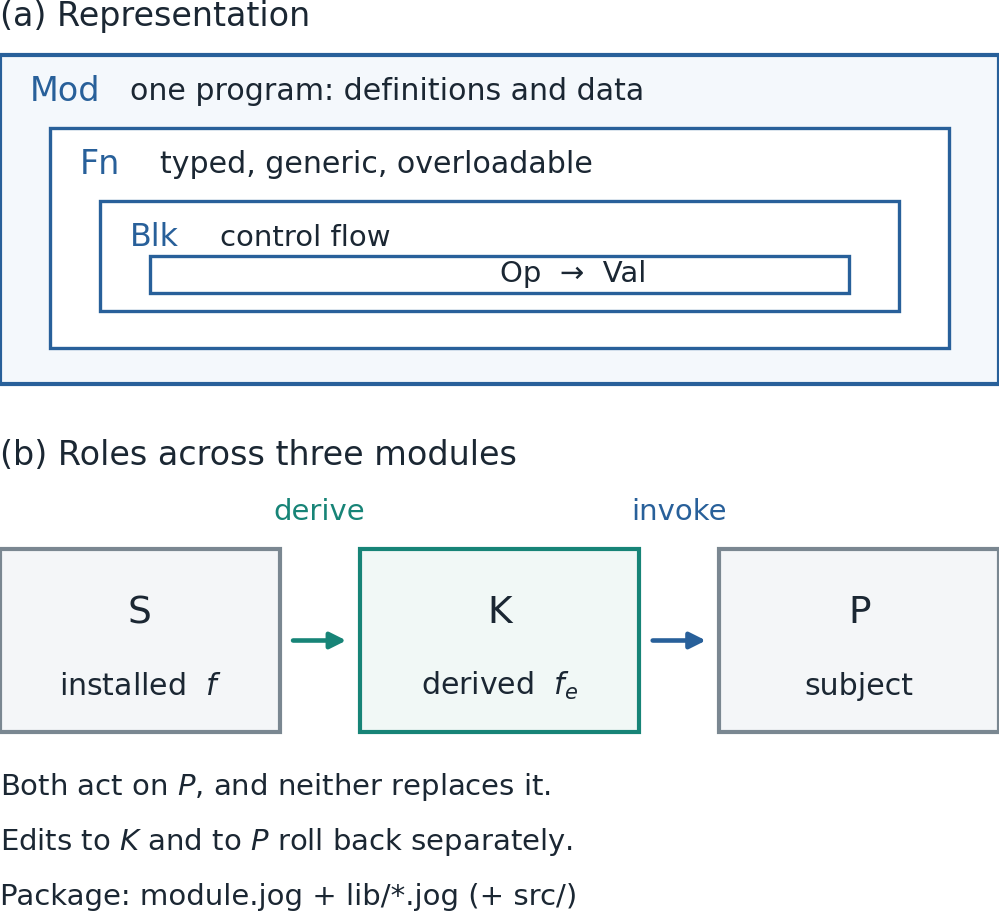
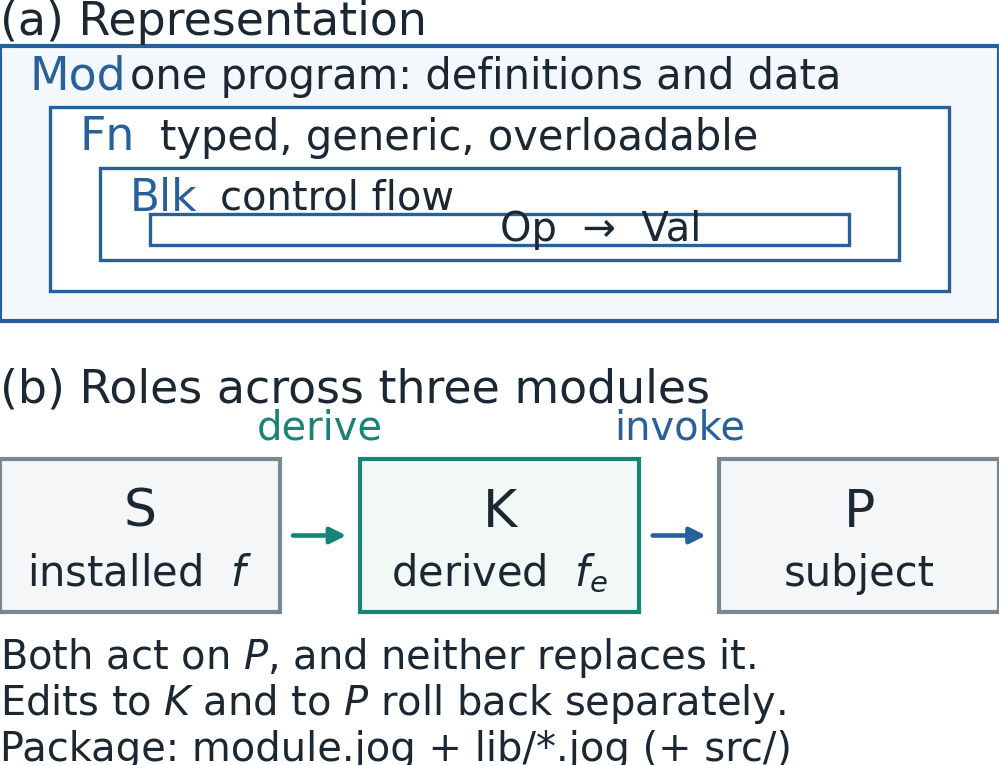
Scope the evaluation domain and fix the display numbering
The review's tenth objection was that the paper opens on specialized
accelerators and changing numerical formats while the evaluation compiles small
ONNX models to scalar C on one laptop, so a reader is promised a co-design
setting the paper never enters. The design-requirements subsection now states
the evaluation domain outright and says what is not exercised: no accelerator
backend, no low-precision deployment path, no dataset-level accuracy, with the
co-design scenario serving to derive requirements rather than as an implemented
configuration. A related-work sentence that called edge inference "not a scope
restriction" contradicted the new statement and was removed.

Two display defects were also found while fitting the page budget. The structure
figure never stepped the figure counter, so it rendered as "Figure 0"; it now
steps the counter and the four figures number 1 to 4 in order, with a text
cross-reference so it is not orphaned. Separately, replacing the conclusion had
silently deleted the bibliographystyle line, which bibtex reported as "I found
no bibstyle command" and which briefly made the paper look like it fit twelve
pages by omitting the references entirely. Both are fixed, and the paper is
twelve technical pages with the references present.

Fitting also required paying for the scope paragraph. The conclusion was
rewritten to state the result rather than re-argue it, the kernel-checklist tail
[…]

diff --git a/paper/submission/main.tex b/paper/submission/main.tex
@@ -210,11 +210,17 @@ present prototype claims about update cost (Section~\ref{sec:reactive}).
 
 \subsection{Design requirements and scope}
 The requirements are asymmetric. Body-level derivation is the capability under
-study. Module composition must preserve the copied algorithm's dependencies,
-and execution must isolate compiler code from the subject it changes. Selective
-exposure lets a consumer request subject detail without lowering the whole
-program. Dependency-sensitive recomputation would further reduce repeated work;
-establishing derivation does not depend on it.
+study; module composition must preserve the copied algorithm's dependencies and
+execution must isolate compiler code from the subject. Selective exposure lets a
+consumer request subject detail without lowering the whole program, and
+dependency-sensitive recomputation would reduce repeated work but is not needed
+to establish derivation.
+
+The evaluation domain is deliberately narrow, and the co-design scenario above
+served to derive requirements rather than as an implemented configuration: ONNX
+models are compiled to scalar C on one host at one thread, and an accelerator
+backend, a low-precision deployment path, and dataset-level accuracy are not
+exercised.
 
 The resulting research question is whether a compiler algorithm body can be
 retained, derived, internally revised, and independently executed while its
@@ -313,9 +319,9 @@ fn plan(m: Mod, fn: Fn) -> bool {
 The excerpt is copied from \texttt{modules/mem/module.jog} at revision
 \texttt{27b37c75} with no change other than elision marks.
 
-Let $S$ hold an installed source definition $f$, $K$ derived compiler
-definitions, and $P$ model computation, each a value of the public \texttt{Mod}
-type. A derivation $D(S,f,e;K)$ creates a fresh definition $f_e$ in $K$ by
+Figure~\ref{fig:structure} fixes the containment and the roles. Let $S$ hold an
+installed source definition $f$, $K$ derived compiler definitions, and $P$ model
+computation, each a value of the public \texttt{Mod} type. A derivation $D(S,f,e;K)$ creates a fresh definition $f_e$ in $K$ by
 cloning $f$ and applying an edit $e$ to the inactive copy, leaving $f$ in $S$
 callable. An execution $\mathit{invoke}(f_e,P)$ reads or edits $P$; $f_e$ is
 not appended to $P$. A read-only query verifies and executes a copy of $P$ and
@@ -371,9 +377,10 @@ allocation safety. Numerical and storage checks therefore remain necessary
 when the derived planner executes on a subject program.
 
 \begin{center}
-\includegraphics[width=0.88\columnwidth]{../figures/structure.pdf}
+\includegraphics[width=0.86\columnwidth]{../figures/structure.pdf}
 
 \vspace{2pt}
+\refstepcounter{figure}\label{fig:structure}
 {\footnotesize\textbf{Figure~\thefigure.} The representation's containment and the three roles a module can
 hold. A \texttt{Mod} is one program holding typed \texttt{Fn} definitions, each
 with blocks, operations, and values; the same representation carries the
@@ -725,16 +732,15 @@ The pinned TVM planner factory exposes no ranking parameter and its allocator is
 C++, so the natural route for the same change is a source edit of the compiler,
 which the pip wheel does not permit. We replaced the allocator's windowed
 best-fit search with the ranking used above, leaving eligibility and rewriting
-unchanged, and rebuilt an existing source build, about nine minutes clean on
-this host. Five fresh processes per route then give the following. The Joggle
-route rebuilds nothing: deriving the recipe costs 0.04\,s and the derived
-planner 2.48\,s. The TVM route pays one translation unit and a relink per edit,
-8.0\,s and 7.7\,s on revert, after a 514\,s clean build. It then plans natively
-far faster than Joggle's interpreted planner, which pays interpretation cost
-instead of rebuilding. Both artifacts
-pass the same oracle. The rule lowers Joggle's first-fit plan yet raises TVM's
-capacity-aware plan, and each system accounts for storage its own way, so the
-two figures are not comparable and the rule itself is not a contribution.
+unchanged, and rebuilt an existing source build, about nine minutes clean here.
+Five fresh processes per route then give the following. The Joggle route
+rebuilds nothing: deriving the recipe costs 0.04\,s and the derived planner
+2.48\,s. The TVM route pays a translation unit and a relink per edit, 8.0\,s and
+7.7\,s on revert, after a 514\,s clean build, and then plans natively far faster
+than Joggle's interpreted planner. Both artifacts pass the same oracle. The rule
+lowers Joggle's first-fit plan yet raises TVM's capacity-aware one, and each
+system accounts for storage its own way, so the two figures are not comparable
+and the rule itself is not a contribution.
 The control covers one model and one host and measures a rebuild and
 feedback boundary, not developer effort or maintenance over upstream changes.
 ONNX-MLIR at \texttt{4a13c34} has the same route shape by source inspection:
@@ -955,18 +961,15 @@ with the planning logic itself minor. The interpreter's cost is therefore a
 value-representation cost, addressable by interned types, shared attributes,
 and arena-allocated frames without changing the function model.
 
-XCiT's preparation exceeds its recorded timeout; an earlier single-model probe
-at revision \texttt{8d20360} observed its first preparation round grow from
-3,135 to 18,976 operations, which is a prose observation from that probe rather
-than a record at the revision this campaign cites. Selective exposure bounds
-what a consumer requests, not the cost of reaching it on a large transformer. Compilation time is now
-measured on one span: the pinned ONNX file on disk to a loadable library, one
-host, one thread, with the fixture all three systems share staged outside the
-span and one artifact built per system. Joggle takes 101.5\,s against 4.52\,s
-for TVM and 4.51\,s for ONNX-MLIR over five runs each, so its compile time is
-22.5$\times$ theirs on this model. The cost is where the design predicts: 55.7\,s
-is the interpreted \texttt{c.prepare} pass, 45.0\,s the plan, place, emit, and
-compile chain, and 0.8\,s ONNX reading and conversion. Peak resident memory for a
+XCiT's preparation exceeds its recorded timeout, and selective exposure bounds
+what a consumer requests rather than the cost of reaching it on a large
+transformer. Compilation time is now measured on one span: the pinned ONNX file
+on disk to a loadable library, one host, one thread, one artifact per system,
+with the fixture all three share staged outside the span. Joggle takes 101.5\,s
+against 4.52\,s for TVM and 4.51\,s for ONNX-MLIR over five runs each, so its
+compile time is 22.5$\times$ theirs here. The cost sits where the design
+predicts: 55.7\,s is the interpreted \texttt{c.prepare} pass, 45.0\,s the plan,
+place, emit, and compile chain, and 0.8\,s reading and converting the model. Peak resident memory for a
 complete model remains unmeasured. Failure tests cover
 transactions and stale handles; generative tests cover parsing and legal IR
 edits, not module loading, serialized frontends, or the native ABI.
@@ -1094,8 +1097,7 @@ organization, kernels, and compiler integration as one systems result
 \cite{burrello2021dory,lin2020mcunet,wang2024ladder,daghero2025sparse};
 TensorFlow Lite Micro, ncnn, and IREE supply deployment baselines
 \cite{david2021tflm,ncnnProject,ireeDocs}, and FlashInfer shows the same
-vertical pressure in attention kernels \cite{ye2025flashinfer}. Joggle uses
-edge inference as a demanding evaluation domain, not as a scope restriction.
+vertical pressure in attention kernels \cite{ye2025flashinfer}.
 Generated mappings and kernels depend on compilers, profilers, and oracles to
 be admitted \cite{hong2025autocomp,mai2026argus}, and compiler fuzzing shows how
 large the semantic failure surface is
@@ -1131,21 +1133,19 @@ Model oracles establish agreement on recorded inputs, not dataset-level
 accuracy, and support for dynamic shapes, stateful execution, concurrent
 devices, and distributed placement remains incomplete. The same-host comparison
 above shows what the substrate does and does not buy: loop reordering is now a
-measured source-level change; the rest of the kernel checklist (register
-accumulation, GEMM mapping, epilogue fusion, parallelization) remains, each
-likewise a source-defined selection or emission procedure. This paper evaluates
-the route by which that work enters, not how far it runs.
+measured source-level change, and the rest of the kernel checklist remains a
+source-defined selection or emission procedure. This paper evaluates the route
+by which that work enters, not how far it runs.
 
 \section{Conclusion}
 Joggle treats a source-defined compiler algorithm body as a reusable program
 artifact: a derivation copies the definition and its private helper closure,
-admits an internal structural edit, and executes on a separate subject while
-the original stays callable, with module resolution, verification, and rollback
-making that boundary explicit. The planner and preparation cases carry such
-edits to checked artifacts, and one matched control reaches the same artifact
-through TVM's source route at the cost of a rebuild that derivation avoids.
-What we claim is bounded by the source-patch control, by unmeasured compilation
-and inference costs, and by dependency-sensitive recomputation still to come.
+admits an internal structural edit, and executes on a separate subject while the
+original stays callable. The planner and preparation cases carry such edits to
+checked artifacts, and a matched control reaches the same artifact through TVM's
+source route at the cost of a rebuild that derivation avoids. The claim is
+bounded by the source-patch control and by compilation and inference costs that
+remain high.
 
 \bibliographystyle{ACM-Reference-Format}
 \bibliography{../references}

diff --git a/paper/scripts/render_structure.py b/paper/scripts/render_structure.py
@@ -28,7 +28,7 @@ def frame(ax, x, y, w, h, color, face="white", lw=0.9):
 
 def main():
     plt.rcParams.update({"font.family": "DejaVu Sans", "pdf.fonttype": 42})
-    fig = plt.figure(figsize=(3.33, 3.05))
+    fig = plt.figure(figsize=(3.33, 2.55))
     ax = fig.add_axes([0, 0, 1, 1])
     ax.set_xlim(0, 100)
     ax.set_ylim(0, 100)
@@ -36,42 +36,42 @@ def main():
 
     # (a) Containment. One label line per level, each box strictly inside its
     # parent so no label can collide with the next frame.
-    ax.text(0, 100, "(a) Representation", fontsize=8, color=INK, va="top")
+    ax.text(0, 100, "(a) Representation", fontsize=11, color=INK, va="top")
     frame(ax, 0, 58, 100, 36, MOD, face="#F4F8FC", lw=1.0)
-    ax.text(3, 90, "Mod", fontsize=8, color=MOD, va="center")
-    ax.text(13, 90, "one program: definitions and data", fontsize=7.2,
+    ax.text(3, 90, "Mod", fontsize=11, color=MOD, va="center")
+    ax.text(13, 90, "one program: definitions and data", fontsize=10,
             color=INK, va="center")
     frame(ax, 5, 62, 90, 24, MOD, lw=0.8)
-    ax.text(8, 82, "Fn", fontsize=8, color=MOD, va="center")
-    ax.text(16, 82, "typed, generic, overloadable", fontsize=7.2, color=INK,
+    ax.text(8, 82, "Fn", fontsize=11, color=MOD, va="center")
+    ax.text(16, 82, "typed, generic, overloadable", fontsize=10, color=INK,
             va="center")
     frame(ax, 10, 66, 80, 12, MOD, lw=0.8)
-    ax.text(13, 74, "Blk", fontsize=7.6, color=MOD, va="center")
-    ax.text(22, 74, "control flow", fontsize=7.0, color=INK, va="center")
+    ax.text(13, 74, "Blk", fontsize=10.5, color=MOD, va="center")
+    ax.text(22, 74, "control flow", fontsize=9.6, color=INK, va="center")
     frame(ax, 15, 68, 70, 4, MOD, lw=0.8)
-    ax.text(50, 70, "Op  →  Val", fontsize=7.0, color=INK, va="center")
+    ax.text(50, 70, "Op  →  Val", fontsize=9.6, color=INK, va="center")
 
     # (b) Roles. Labels sit inside their own box; the arrow label sits above the
     # arrow with a clear band, and the notes go on their own lines below.
-    ax.text(0, 52, "(b) Roles across three modules", fontsize=8, color=INK, va="top")
+    ax.text(0, 52, "(b) Roles across three modules", fontsize=11, color=INK, va="top")
     for x, tag, sub, color, face in ((0, "S", "installed  $f$", SUB, "#F4F6F8"),
                                      (36, "K", "derived  $f_e$", DER, "#F1F8F6"),
                                      (72, "P", "subject", SUB, "#F4F6F8")):
         frame(ax, x, 20, 28, 20, color, face=face, lw=1.0)
-        ax.text(x + 14, 33, tag, fontsize=9, color=INK, ha="center", va="center")
-        ax.text(x + 14, 25, sub, fontsize=7.2, color=INK, ha="center", va="center")
+        ax.text(x + 14, 33, tag, fontsize=12.5, color=INK, ha="center", va="center")
+        ax.text(x + 14, 25, sub, fontsize=10, color=INK, ha="center", va="center")
     ax.add_patch(FancyArrowPatch((28.5, 30), (35.5, 30), arrowstyle="-|>",
                                  mutation_scale=8, color=DER, linewidth=1.1))
-    ax.text(32, 44, "derive", fontsize=7.0, color=DER, ha="center", va="center")
+    ax.text(32, 44, "derive", fontsize=9.6, color=DER, ha="center", va="center")
     ax.add_patch(FancyArrowPatch((64.5, 30), (71.5, 30), arrowstyle="-|>",
                                  mutation_scale=8, color=MOD, linewidth=1.1))
-    ax.text(68, 44, "invoke", fontsize=7.0, color=MOD, ha="center", va="center")
+    ax.text(68, 44, "invoke", fontsize=9.6, color=MOD, ha="center", va="center")
 
-    ax.text(0, 14, "Both act on $P$, and neither replaces it.", fontsize=7.0,
+    ax.text(0, 14, "Both act on $P$, and neither replaces it.", fontsize=9.6,
             color=INK, va="center")
-    ax.text(0, 8, "Edits to $K$ and to $P$ roll back separately.", fontsize=7.0,
+    ax.text(0, 8, "Edits to $K$ and to $P$ roll back separately.", fontsize=9.6,
             color=INK, va="center")
-    ax.text(0, 2, "Package: module.jog + lib/*.jog (+ src/)", fontsize=7.0,
+    ax.text(0, 2, "Package: module.jog + lib/*.jog (+ src/)", fontsize=9.6,
             color=INK, va="center")
 
     out = ROOT / "figures" / "structure.pdf"
